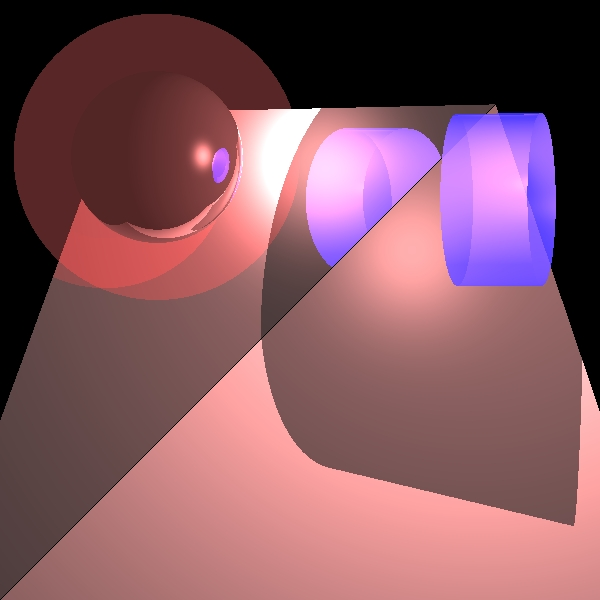
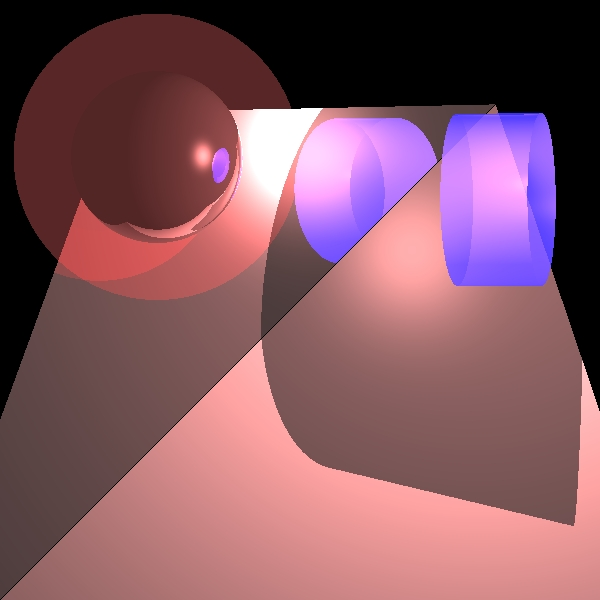
finish stage 7 (C) 31/05/2020 16:30

diff --git a/UnitTests/UnitTests/ReflectionRefractionTests.java b/UnitTests/UnitTests/ReflectionRefractionTests.java
@@ -120,7 +120,7 @@ public class ReflectionRefractionTests {
                 new Triangle(Color.BLACK, new Material(0.5, 0.5, 60), //
                         new Point3D(-150, 150, 115), new Point3D(150, 150, 135), new Point3D(75, -75, 150)), //
                 new Triangle(Color.BLACK, new Material(0.2, 0.8, 60,0,0.8), //
-                        new Point3D(-150, 150, 115), new Point3D(-70, -70, 123), new Point3D(75, -75, 150)), //
+                        new Point3D(-150, 150, 115), new Point3D(-70, -70, 120), new Point3D(75, -75, 150)), //
                 new Cylinder(new Color(java.awt.Color.BLUE), new Material(0.2, 0.2, 30, 0.6, 0), 30, // )
                         new Ray(new Point3D(55, -35, 50),new Vector(1,0,-0.25)),30),
                 new Sphere(Color.BLACK, new Material(0.2, 0.8, 30, 0, 0.8), // )
